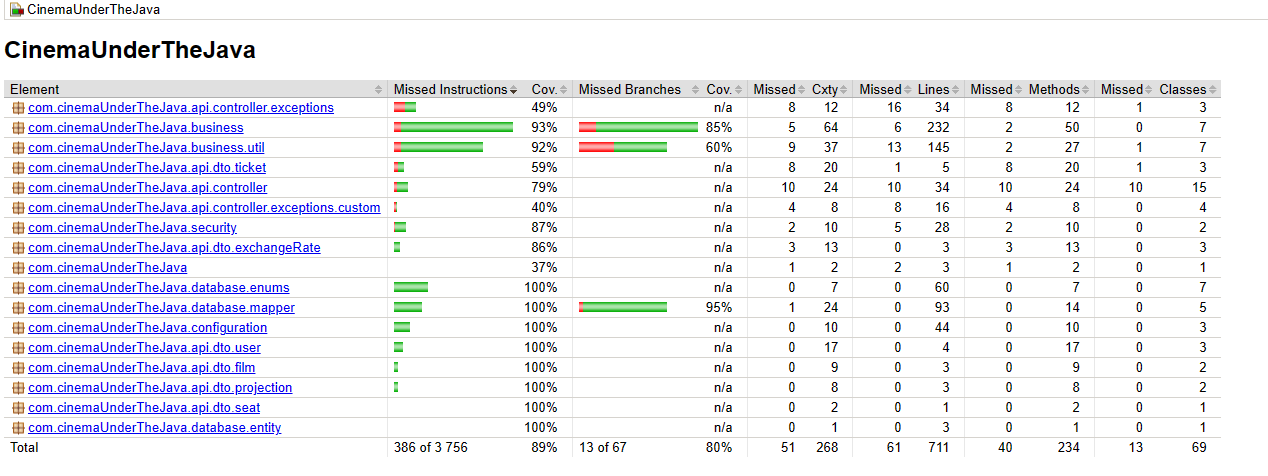
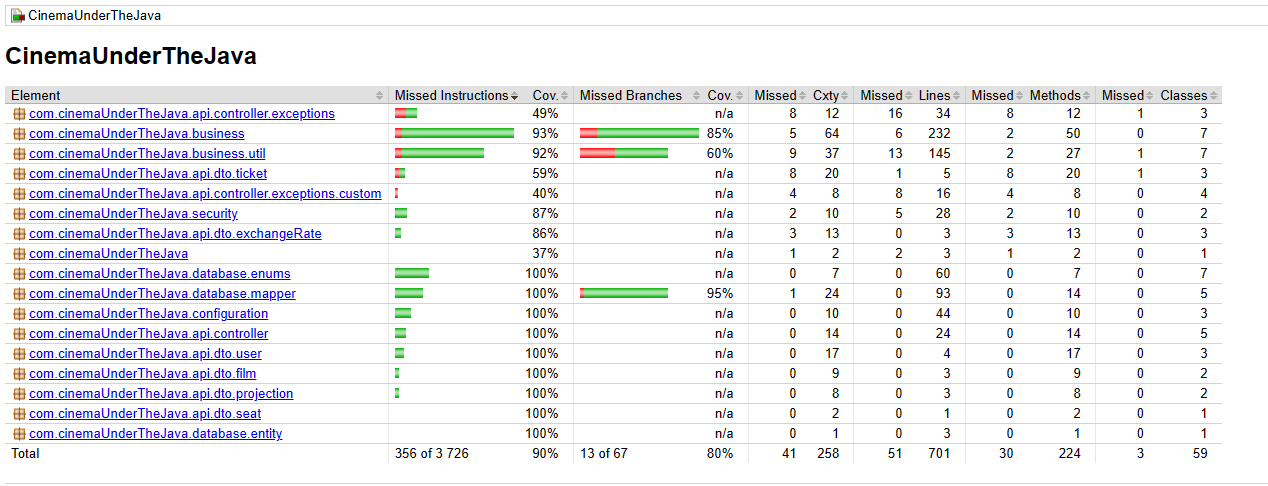
Small controller and readme refactoring

Changed region(s): [[0.0, 0.0882, 0.9842, 0.9706], [0.0, 0.0, 1.0, 0.0588], [0.892, 0.5882, 0.9535, 0.6176]]

diff --git a/src/main/java/com/CinemaUnderTheJava/api/controller/FilmController.java b/src/main/java/com/CinemaUnderTheJava/api/controller/FilmController.java
@@ -13,13 +13,24 @@ import org.springframework.web.bind.annotation.*;
 
 import java.util.List;
 
-import static com.cinemaUnderTheJava.api.controller.FilmController.ControllerOperationSummary.*;
-import static com.cinemaUnderTheJava.api.controller.FilmController.ControllerRoutes.*;
+import static com.cinemaUnderTheJava.api.controller.FilmController.ROOT;
 
 @RestController
 @RequiredArgsConstructor
 @RequestMapping(ROOT)
 public class FilmController {
+
+    static final String ROOT = "/films";
+    static final String CATEGORY = "/category";
+    static final String SAVE_NEW_FILM = "/newFilm";
+    static final String DELETE_FILM_BY_ID = "/delete/{id}";
+    static final String GET_BY_ID = "/{id}";
+
+    static final String GET_ALL_FILMS_MESSAGE = "Get all films";
+    static final String GET_FILM_BY_CATEGORY_MESSAGE = "Get films by category";
+    static final String SAVE_NEW_FILM_MESSAGE = "Save a new film";
+    static final String DELETE_FILM_BY_ID_MESSAGE = "Delete a film by ID";
+    static final String GET_BY_ID_MESSAGE = "Get a film by ID";
 
     private final FilmService filmService;
 
@@ -63,21 +74,5 @@ public class FilmController {
     ) {
         FilmResponseDto filmResponseDto = filmService.getFilmDtoById(id);
         return ResponseEntity.ok(filmResponseDto);
-    }
-
-    static final class ControllerRoutes {
-        static final String ROOT = "/films";
-        static final String CATEGORY = "/category";
-        static final String SAVE_NEW_FILM = "/newFilm";
-        static final String DELETE_FILM_BY_ID = "/delete/{id}";
-        static final String GET_BY_ID = "/{id}";
-    }
-
-    static final class ControllerOperationSummary {
-        static final String GET_ALL_FILMS_MESSAGE = "Get all films";
-        static final String GET_FILM_BY_CATEGORY_MESSAGE = "Get films by category";
-        static final String SAVE_NEW_FILM_MESSAGE = "Save a new film";
-        static final String DELETE_FILM_BY_ID_MESSAGE = "Delete a film by ID";
-        static final String GET_BY_ID_MESSAGE = "Get a film by ID";
     }
 }

diff --git a/src/main/java/com/CinemaUnderTheJava/api/controller/ProjectionController.java b/src/main/java/com/CinemaUnderTheJava/api/controller/ProjectionController.java
@@ -14,14 +14,22 @@ import org.springframework.web.bind.annotation.*;
 import java.time.LocalDate;
 import java.util.List;
 
-import static com.cinemaUnderTheJava.api.controller.ProjectionController.ControllerOperationSummary.*;
-import static com.cinemaUnderTheJava.api.controller.ProjectionController.ControllerRoutes.*;
+import static com.cinemaUnderTheJava.api.controller.ProjectionController.ROOT;
 
 @RestController
 @RequiredArgsConstructor
 @RequestMapping(ROOT)
 public class ProjectionController {
 
+    static final String ROOT = "/projections";
+    static final String SAVE = "/{filmId}";
+    static final String ALL = "/all";
+    static final String ID = "/{id}";
+
+    static final String SAVE_PROJECTION_MESSAGE = "Save a new projection for a film";
+    static final String GET_PROJECTION_BY_DATE_MESSAGE = "Get projections for a specific date";
+    static final String GET_ALL_MESSAGE = "Get all projections";
+    static final String GET_AVAILABLE_SEATS_MESSAGE = "Get available seats for a specific projection";
     private final ProjectionService projectionService;
 
     @PostMapping(SAVE)
@@ -56,19 +64,5 @@ public class ProjectionController {
     ) {
         AvailableSeatsDto availableSeats = projectionService.getAvailableSeats(id);
         return ResponseEntity.ok(availableSeats);
-    }
-
-    static final class ControllerRoutes {
-        static final String ROOT = "/projections";
-        static final String SAVE = "/{filmId}";
-        static final String ALL = "/all";
-        static final String ID = "/{id}";
-    }
-
-    static final class ControllerOperationSummary {
-        static final String SAVE_PROJECTION_MESSAGE = "Save a new projection for a film";
-        static final String GET_PROJECTION_BY_DATE_MESSAGE = "Get projections for a specific date";
-        static final String GET_ALL_MESSAGE = "Get all projections";
-        static final String GET_AVAILABLE_SEATS_MESSAGE = "Get available seats for a specific projection";
     }
 }

diff --git a/src/main/java/com/CinemaUnderTheJava/api/controller/UserController.java b/src/main/java/com/CinemaUnderTheJava/api/controller/UserController.java
@@ -11,13 +11,21 @@ import org.springframework.http.HttpStatus;
 import org.springframework.http.ResponseEntity;
 import org.springframework.web.bind.annotation.*;
 
-import static com.cinemaUnderTheJava.api.controller.UserController.ControllerOperationSummary.*;
-import static com.cinemaUnderTheJava.api.controller.UserController.ControllerRoutes.*;
+import static com.cinemaUnderTheJava.api.controller.UserController.ROOT;
 
 @RestController
 @RequiredArgsConstructor
 @RequestMapping(ROOT)
 public class UserController {
+
+    static final String ROOT = "/users";
+    static final String REGISTRATION = "/registration";
+    static final String ID = "/{id}";
+    static final String ACTIVATION = "/activation";
+
+    static final String REGISTER_A_NEW_USER = "Register a new user";
+    static final String RETRIEVE_USER_INFORMATION_MESSAGE = "Retrieve user information by ID";
+    static final String ACTIVATE_USER_ACCOUNT_MESSAGE = "Activate user account based on the provided token";
 
     private final UserService userService;
     private final UserVerificationUtil userVerification;
@@ -46,19 +54,6 @@ public class UserController {
     ) {
         userVerification.activateUserAccount(token);
         return ResponseEntity.ok("Activation has been completed!");
-    }
-
-    static final class ControllerRoutes {
-        static final String ROOT = "/users";
-        static final String REGISTRATION = "/registration";
-        static final String ID = "/{id}";
-        static final String ACTIVATION = "/activation";
-    }
-
-    static final class ControllerOperationSummary {
-        static final String REGISTER_A_NEW_USER = "Register a new user";
-        static final String RETRIEVE_USER_INFORMATION_MESSAGE = "Retrieve user information by ID";
-        static final String ACTIVATE_USER_ACCOUNT_MESSAGE = "Activate user account based on the provided token";
     }
 }
 

diff --git a/src/main/java/com/CinemaUnderTheJava/api/controller/TicketController.java b/src/main/java/com/CinemaUnderTheJava/api/controller/TicketController.java
@@ -10,14 +10,17 @@ import org.springframework.http.HttpStatus;
 import org.springframework.http.ResponseEntity;
 import org.springframework.web.bind.annotation.*;
 
-import static com.cinemaUnderTheJava.api.controller.TicketController.ControllerOperationMessages.RESERVE_TICKET_MESSAGE;
-import static com.cinemaUnderTheJava.api.controller.TicketController.ControllerRoutes.PROJECTION_ID;
-import static com.cinemaUnderTheJava.api.controller.TicketController.ControllerRoutes.ROOT;
+import static com.cinemaUnderTheJava.api.controller.TicketController.ROOT;
 
 @RestController
 @RequiredArgsConstructor
 @RequestMapping(ROOT)
 public class TicketController {
+
+    static final String ROOT = "/tickets";
+    static final String PROJECTION_ID = "/{userId}/{projectionId}";
+
+    static final String RESERVE_TICKET_MESSAGE = "Reserve a ticket for a specific projection";
 
     private final TicketService ticketService;
 
@@ -29,14 +32,5 @@ public class TicketController {
             @PathVariable Long userId
     ) throws MessagingException {
         return new ResponseEntity<>(ticketService.reserveTicket(projectionId, ticketReservationDto, userId), HttpStatus.CREATED);
-    }
-
-    static final class ControllerRoutes {
-        static final String ROOT = "/tickets";
-        static final String PROJECTION_ID = "/{userId}/{projectionId}";
-    }
-
-    static final class ControllerOperationMessages {
-        static final String RESERVE_TICKET_MESSAGE = "Reserve a ticket for a specific projection";
     }
 }

diff --git a/src/main/java/com/CinemaUnderTheJava/api/controller/ExchangeRateController.java b/src/main/java/com/CinemaUnderTheJava/api/controller/ExchangeRateController.java
@@ -11,12 +11,15 @@ import org.springframework.web.bind.annotation.RestController;
 
 import java.util.List;
 
-import static com.cinemaUnderTheJava.api.controller.ExchangeRateController.ControllerOperationSummary.FIND_ALL_CURRENCIES_MESSAGE;
+import static com.cinemaUnderTheJava.api.controller.ExchangeRateController.ROOT;
 
 @RestController
 @RequiredArgsConstructor
-@RequestMapping(ExchangeRateController.ControllerRoutes.ROOT)
+@RequestMapping(ROOT)
 public class ExchangeRateController {
+
+    static final String ROOT = "/codes";
+    static final String FIND_ALL_CURRENCIES_MESSAGE = "Get all current exchange rates from the NBP - National Bank of Poland";
 
     private final ExchangeRateService exchangeRateService;
 
@@ -25,13 +28,5 @@ public class ExchangeRateController {
     public ResponseEntity<List<ExchangeRateResponseDto>> findAllCurrencies() {
         List<ExchangeRateResponseDto> body = exchangeRateService.findAllCurrency();
         return ResponseEntity.ok(body);
-    }
-
-    static final class ControllerRoutes {
-        static final String ROOT = "/codes";
-    }
-
-    static final class ControllerOperationSummary {
-        static final String FIND_ALL_CURRENCIES_MESSAGE = "Get all current exchange rates from the NBP - National Bank of Poland";
     }
 }

diff --git a/README.MD b/README.MD
@@ -38,11 +38,15 @@ However, it's worth noting that the Mapstruct library generates a substantial am
 code coverage achieved by tests. Despite the convenience offered by this library, I am considering manual mapping of entities to DTOs and vice versa
 to avoid excessive testing of mappers.
 
-To generate a code coverage report, the JaCoCo Java Code Coverage Library was used. The code coverage is: 89%/80% (Instructions/Branches) which is
+To generate a code coverage report, the JaCoCo Java Code Coverage Library was used. The code coverage is: 90%/80% (Instructions/Branches) which is
 presented below.
 
 <h1 align="center">
   <a><img src="src/main/resources/static/images/JacocoReport.PNG" alt="Cinema Under The Java"></a>
+</h1>
+
+<h1 align="center">
+  <a><img src="src/main/resources/static/images/CodeCoverage.PNG" alt="Cinema Under The Java"></a>
 </h1>
 
 ## 📚 Technology Stack
